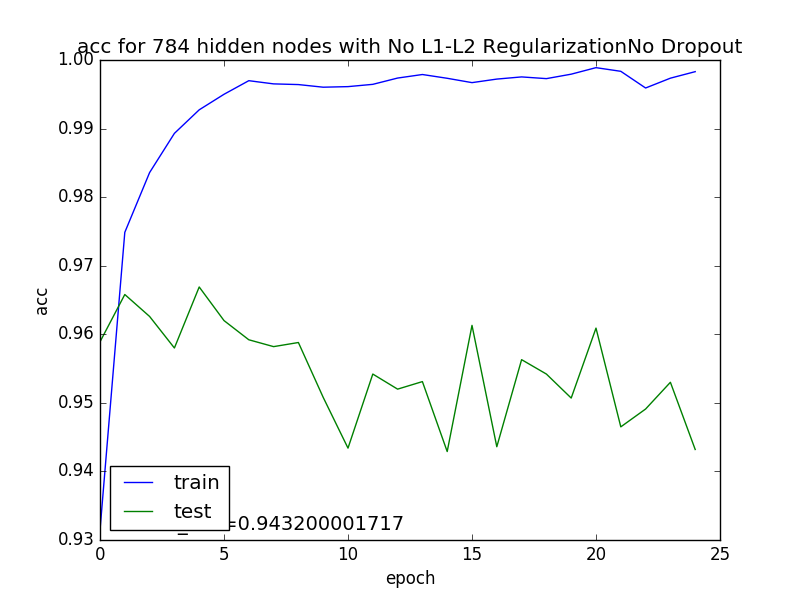
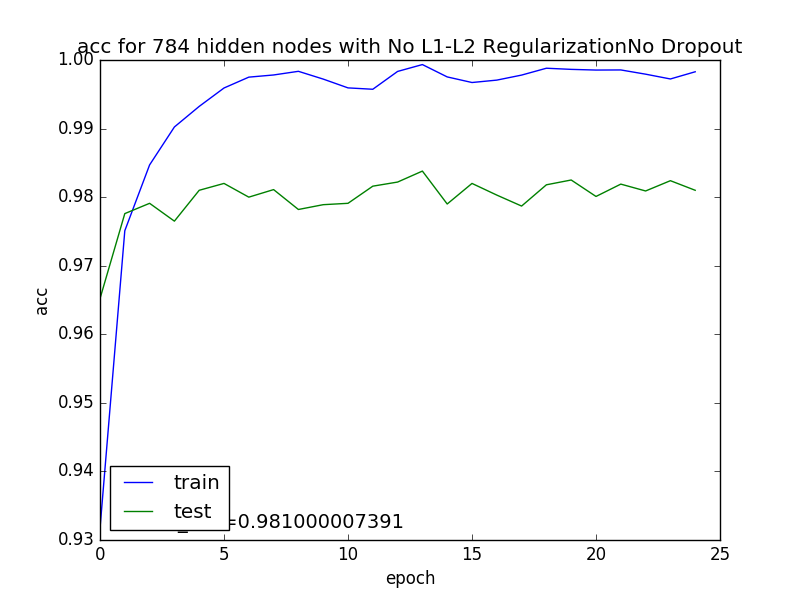
Added Tarefa6 and changed L2Reg for Tarefa5, didn't improve.

diff --git a/Tarefa6/FC2Layer_Mnist.py b/Tarefa6/FC2Layer_Mnist.py
@@ -1,17 +1,16 @@
 #Aprender a utilizar regularizacao: criar uma FC com 2 camadas, numero de neuronios ocultos a sua escolha. Utilizar a regularizacao que quiser (pode usar mais de uma ao mesmo tempo). Tentar maximizar valAcc com o dataset MNIST.
-import keras
 from keras.models import Sequential
 from keras.layers import Dense
 from keras.layers import Dropout
+from keras.layers import Flatten
 from keras.utils import np_utils
 from keras.datasets import mnist
 from keras.regularizers import l2
 from keras.regularizers import l1
-#from sklearn.preprocessing import LabelEncoder
-#from sklearn.pipeline import Pipeline
+from keras.layers.convolutional import Convolution2D
+from keras.layers.convolutional import MaxPooling2D
 import matplotlib.pyplot as plt
 import numpy
-#import pandas
 import time
 from datetime import timedelta
 
@@ -37,9 +36,8 @@ EPOCH = 25
 
 
 # Model Options
-l1Reg = [0]#[0,0.0001,0.0005,0.001,0.005] # 
-l2Reg = [0.0001]#[0,0.0001,0.0005,0.001,0.005] # 
-dropout = [0.1]#[0.2]
+size_kernel = 2 # Kernel = size_kernelxsize_kernel
+dropout = [0.2]
 hidden_nodes = [784] #[200, 500, 784] 
 
 ########################
@@ -88,10 +86,9 @@ def plotGraph (filename, nodes, vecTrain, vecTest, nameVec):
 
 # load mnist dataset
 (X,Y),(X_test, Y_test) = mnist.load_data()
-# flatten 28*28 images to a 784 vector for each image
-num_pixels = X.shape[1]*X.shape[2]
-X = X.reshape(X.shape[0],num_pixels).astype('float32')
-X_test = X_test.reshape(X_test.shape[0],num_pixels).astype('float32')
+# reshape to be [samples][pixels][width][height]
+X = X.reshape(X.shape[0],1,X.shape[1],X.shape[2]).astype('float32')
+X_test = X_test.reshape(X_test.shape[0],1,X.shape[1],X.shape[2]).astype('float32')
 # Data Preprocessing
 #X -= numpy.mean(X)
 #X_test -= numpy.mean(X)
@@ -113,41 +110,41 @@ if SAVE_CSV == 1:
 # define model
 for h in range(0, len(hidden_nodes)):
 	for j in range(0,len(dropout)):	
-		for i in range(0,len(l2Reg)):
-			# time measure
+		# time measure
 
-			start_time = time.time()
-			print("----------------------------------")
-			print("Creating model with hidden_nodes =",hidden_nodes[h])
-			# create model
-			model = Sequential()
-			# creates layer with hidden_nodes nodes and chooses which regularization it will use
-			model.add(Dense(hidden_nodes[h], input_dim=num_pixels, init='he_normal', activation='relu', W_regularizer = l2(l2Reg[i])))
-			regStr = "L2Regularization="+str(l2Reg[i])#+" L2_Regularization="+str(l2Reg)
-			model.add(Dropout(dropout[j]))
-			regStr = regStr+"_Dropout=%.2f"%dropout[j]
-			# output layer
-			model.add(Dense(num_classes, init='he_normal', activation='softmax'))
-			print("Added",regStr)
-			# Compile model
-			model.compile(loss='categorical_crossentropy', optimizer='nadam', metrics=['accuracy'])
-			history = model.fit(X,Y,validation_data=(X_test,Y_test),nb_epoch=EPOCH,batch_size=BATCHSIZE,verbose=2)
-			# Show time elapsed
-			print("Elapsed time = ",str(timedelta(seconds=(time.time()-start_time))))
-			# Storing history
-			acc = numpy.array(history.history['acc'])
-			val_acc = numpy.array(history.history['val_acc'])
-			loss = numpy.array(history.history['loss'])
-			val_loss = numpy.array(history.history['val_loss'])
-			# Storing in csvArray
-			if SAVE_CSV:
-				a = numpy.array([hidden_nodes[h],l1Reg[i],dropout[j],val_acc[EPOCH-1],acc[EPOCH-1],val_loss[EPOCH-1],loss[EPOCH-1]])
-				csvArray = numpy.vstack([csvArray,a])
-			# Plotting
-			if SHOW_ACC == 1:
-				plotGraph(regStr,nodes=hidden_nodes[h], vecTrain=acc, vecTest=val_acc, nameVec="acc")
-			if SHOW_LOSS == 1:
-				plotGraph(regStr,nodes=hidden_nodes[h], vecTrain=loss, vecTest=val_loss, nameVec="loss")
+		start_time = time.time()
+		print("----------------------------------")
+		print("Creating model with hidden_nodes =",hidden_nodes[h])
+		# create model
+		model = Sequential()
+		model.add(Convolution2D(num_kernel,size_kernel,size_kernel,border_mode='valid', input_shape(1,28,28), activation='relu')) # convolution layer
+		regStr = "Kernel="+str(size_kernel)+"*"+str(size_kernel)
+		model.add(Dropout(dropout[j]))
+		regStr = regStr+"_Dropout=%.2f"%dropout[j]
+		model.add(Flatten()) # converts 2D matrix data to vector
+		model.add(Dense(128,init='he_normal',activation='relu') #fully connected layer
+		# output layer
+		model.add(Dense(num_classes, init='he_normal', activation='softmax'))
+		print("Added",regStr)
+		# Compile model
+		model.compile(loss='categorical_crossentropy', optimizer='nadam', metrics=['accuracy'])
+		history = model.fit(X,Y,validation_data=(X_test,Y_test),nb_epoch=EPOCH,batch_size=BATCHSIZE,verbose=2)
+		# Show time elapsed
+		print("Elapsed time = ",str(timedelta(seconds=(time.time()-start_time))))
+		# Storing history
+		acc = numpy.array(history.history['acc'])
+		val_acc = numpy.array(history.history['val_acc'])
+		loss = numpy.array(history.history['loss'])
+		val_loss = numpy.array(history.history['val_loss'])
+		# Storing in csvArray
+		if SAVE_CSV:
+			a = numpy.array([hidden_nodes[h],l1Reg[i],dropout[j],val_acc[EPOCH-1],acc[EPOCH-1],val_loss[EPOCH-1],loss[EPOCH-1]])
+			csvArray = numpy.vstack([csvArray,a])
+		# Plotting
+		if SHOW_ACC == 1:
+			plotGraph(regStr,nodes=hidden_nodes[h], vecTrain=acc, vecTest=val_acc, nameVec="acc")
+		if SHOW_LOSS == 1:
+			plotGraph(regStr,nodes=hidden_nodes[h], vecTrain=loss, vecTest=val_loss, nameVec="loss")
 
 if SAVE_CSV:
 	print("Saving results to test.csv")
